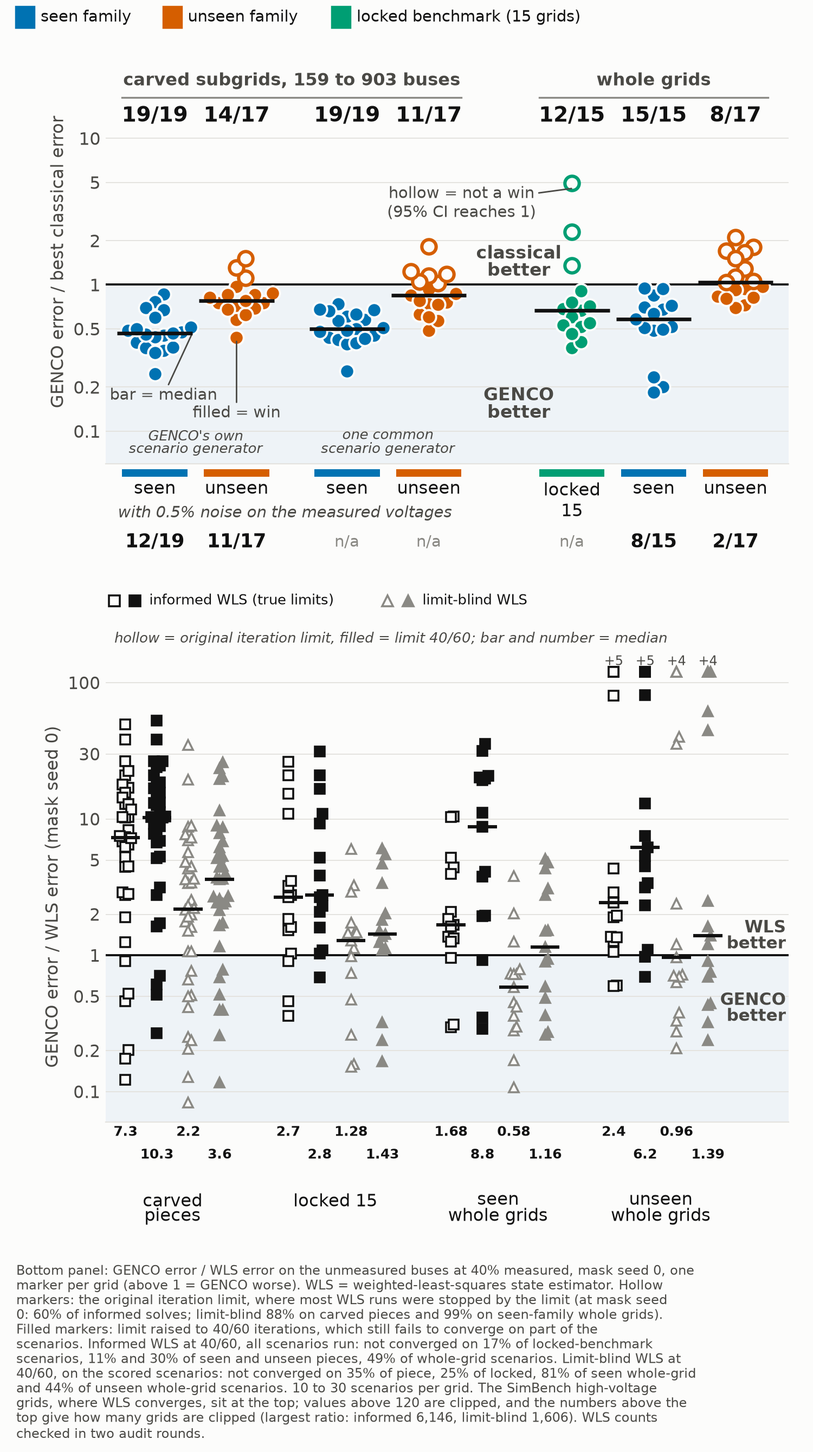
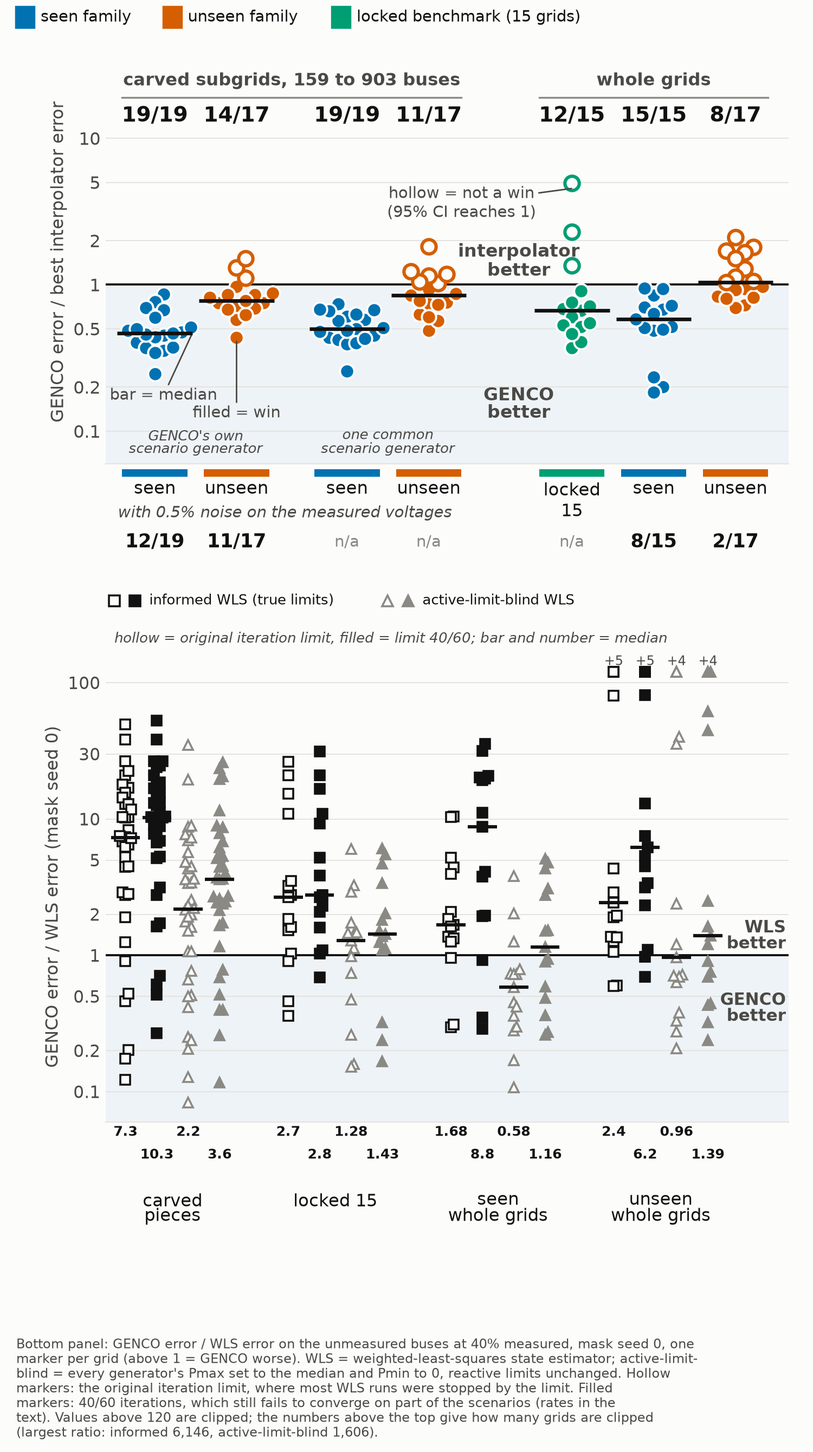
Post text and figures revised after review: scoped claims, definitions, active-limit-blind WLS, fixed-I2 fallback, figure labels

diff --git a/tracks/genco-challenge/results/2026-10-25-figure-a-v35/make_fig_a_v35.py b/tracks/genco-challenge/results/2026-10-25-figure-a-v35/make_fig_a_v35.py
@@ -104,9 +104,9 @@ def fig_a():
     ax.set_yticks([0.1, 0.2, 0.5, 1, 2, 5, 10]); ax.set_yticklabels(["0.1", "0.2", "0.5", "1", "2", "5", "10"], fontsize=11.5)
     ax.tick_params(axis="y", length=0); ax.tick_params(axis="x", length=0, labelbottom=False)
     ax.grid(axis="y", color=GRID, lw=0.7, zorder=0); ax.set_axisbelow(True); clean(ax)
-    ax.set_ylabel("GENCO error / best classical error", fontsize=11.5)
+    ax.set_ylabel("GENCO error / best interpolator error", fontsize=11.5)
     ax.text(4.45, 0.12, "GENCO\nbetter", fontsize=12, color=INK2, fontweight="bold", va="bottom", ha="center", linespacing=0.95)
-    ax.text(4.45, 1.12, "classical\nbetter", fontsize=12, color=INK2, fontweight="bold", va="bottom", ha="center", linespacing=0.95)
+    ax.text(4.45, 1.12, "interpolator\nbetter", fontsize=12, color=INK2, fontweight="bold", va="bottom", ha="center", linespacing=0.95)
     # direct annotations replacing a legend
     lock = [e for n, c, e, _ in cols if n == "locked 15"][0]
     rmax = max(lock, key=lambda e: e["ratio"])["ratio"]
@@ -178,7 +178,7 @@ def fig_a():
     axw.text(21.1, 0.55, "GENCO\nbetter", fontsize=11, color=INK2, fontweight="bold", va="top", ha="right", linespacing=0.95)
     axw.text(21.1, 1.1, "WLS\nbetter", fontsize=11, color=INK2, fontweight="bold", va="bottom", ha="right", linespacing=0.95)
     # direct key (replaces a legend): square = informed, triangle = limit-blind; hollow = original limit, filled = limit raised to 40/60
-    for xk, (mk, c_h, c_f, ttl) in zip((-2.0, 7.4), (("s", INK, INK, "informed WLS (true limits)"), ("^", GREY, GREY, "limit-blind WLS"))):
+    for xk, (mk, c_h, c_f, ttl) in zip((-2.0, 7.4), (("s", INK, INK, "informed WLS (true limits)"), ("^", GREY, GREY, "active-limit-blind WLS"))):
         yk = 400
         axw.plot(xk, yk, mk, ms=7, mfc=SURF, mec=c_h, mew=1.3, clip_on=False)
         axw.plot(xk + 0.7, yk, mk, ms=7, mfc=c_f, mec=c_h, mew=1.3, clip_on=False)
@@ -196,13 +196,10 @@ def fig_a():
     wo = pd.read_csv(R / "2026-10-21-genco-voltage-wls/wls_only_v3.csv")
     PLOTTED["wls_only_v3"] = wo.to_dict(orient="records")
     foot = ("Bottom panel: GENCO error / WLS error on the unmeasured buses at 40% measured, mask seed 0, one marker per grid (above 1 = GENCO worse). "
-            "WLS = weighted-least-squares state estimator. Hollow markers: the original iteration limit, where most WLS runs were stopped by the limit "
-            "(at mask seed 0: 60% of informed solves; limit-blind 88% on carved pieces and 99% on seen-family whole grids). Filled markers: limit raised to 40/60 iterations, "
-            "which still fails to converge on part of the scenarios. Informed WLS at 40/60, all scenarios run: not converged on 17% of locked-benchmark scenarios, "
-            "11% and 30% of seen and unseen pieces, 49% of whole-grid scenarios. Limit-blind WLS at 40/60, on the scored scenarios: not converged on 35% of piece, "
-            "25% of locked, 81% of seen whole-grid and 44% of unseen whole-grid scenarios. 10 to 30 scenarios per grid. "
-            "The SimBench high-voltage grids, where WLS converges, sit at the top; values above 120 are clipped, and the numbers above the top "
-            "give how many grids are clipped (largest ratio: informed 6,146, limit-blind 1,606). WLS counts checked in two audit rounds.")
+            "WLS = weighted-least-squares state estimator; active-limit-blind = every generator's Pmax set to the median and Pmin to 0, reactive "
+            "limits unchanged. Hollow markers: the original iteration limit, where most WLS runs were stopped by the limit. Filled markers: 40/60 "
+            "iterations, which still fails to converge on part of the scenarios (rates in the text). Values above 120 are clipped; the numbers "
+            "above the top give how many grids are clipped (largest ratio: informed 6,146, active-limit-blind 1,606).")
     fig.text(0.02, 0.008, textwrap.fill(foot, 100), fontsize=8.5, color=INK2, va="bottom", ha="left", linespacing=1.15)
     draw_key(fig, 0.9880, [("seen family", BLUE, BLUE), ("unseen family", VERM, VERM), ("locked benchmark (15 grids)", GREEN, GREEN)])
     fig.savefig(OUT / "fig_a_voltage_inference_v35.png", dpi=DPI, facecolor=SURF); plt.close(fig)

diff --git a/tracks/genco-challenge/results/2026-10-24-figure-redesign/make_figs_v3.py b/tracks/genco-challenge/results/2026-10-24-figure-redesign/make_figs_v3.py
@@ -201,9 +201,9 @@ def fig_b():
     c = json.load(open(R / "2026-10-20-genco-transfer/contrast_12k.json"))
     RND, PFM = None, PURP    # random mask = hollow bar; arms that use the power-flow-task mask = purple
     groups = [("GENCO's original data only", [("C00", "random mask", RND), ("C01", "50/50 mix of both masks", PFM)], None),
-              ("our data + original data", [("D", "random mask", RND), ("b", "half-then-mix (random so far)", RND)], "batches 2.34x larger"),
+              ("our data + original data", [("D", "random mask", RND), ("b", "half-then-mix (random so far)", RND)], "2.34x nodes/update"),
               ("our data + original, power-flow mask", [("a", "power-flow-task mask only", PFM), ("c", "power-flow curriculum", PFM),
-                                                       ("m", "50/50 mix of both masks", PFM)], "batches 2.34x larger")]
+                                                       ("m", "50/50 mix of both masks", PFM)], "2.34x nodes/update")]
     fig = plt.figure(figsize=(7.5, 5.7))
     ax = fig.add_axes([0.335, 0.12, 0.33, 0.74])
     from matplotlib.transforms import blended_transform_factory
@@ -285,7 +285,7 @@ def fig_c():
     ax.set_xticks([10, 25, 50, 100, 250, 500, 1000, 5000]); ax.set_xticklabels(["0", "25", "50", "100", "250", "500", "1k", "final"], fontsize=11)
     ax.set_yticks([0, 0.2, 0.4, 0.6, 0.8, 1.0]); ax.set_yticklabels(["0", "0.2", "0.4", "0.6", "0.8", "1.0"], fontsize=11)
     ax.tick_params(length=0); ax.grid(color=GRID, lw=0.7); ax.set_axisbelow(True); clean(ax)
-    ax.set_xlabel("continued-pretraining updates (log scale; final is about 5k)", fontsize=10.5)
+    ax.set_xlabel("continued-pretraining updates (log scale; 0 is drawn at the left edge; final is about 5k)", fontsize=10.5)
     ax.set_ylabel("fraction of hidden collapsed buses\nstill predicted below 0.5 pu (axis from 0)", fontsize=11, linespacing=1.0)
     # preservation
     items = [("branch angle", "final/retrain_fixed", "final/retrain_published", "median_angle_ratio_to_released"),

diff --git a/ENTRY.md b/ENTRY.md
@@ -9,12 +9,12 @@ Mazin Al-Mahrouqi (The Ohio State University)
 
 GENCO comes with its code, pretraining data and checkpoints. That let us look closely, and we thank the authors for it. We asked three questions. Are GENCO's own training labels physically valid, and what does the model learn from the ones that are not? The paper reports zero-shot transfer as unsolved; is there a task where the released checkpoint already works without fine-tuning? Does more pretraining help? This post is what we found, for people who use GENCO or plan to build on it.
 
-1. **On the power-flow task, GENCO tolerates its own bad labels.** About 3% of the sampled pretraining labels are collapsed roots of the power-flow equations. Under its masked pretraining task the model reproduces them. Asked to solve the power flow on the same systems, it avoids the collapsed magnitudes and lands near a physical solution: within a median 0.008 pu of one at the collapsed buses, in all 1,083 scored scenarios.
-2. **Without fine-tuning, GENCO can fill in missing voltages.** The paper's zero-shot limitation is about power-flow transfer, and our own power-flow tests agree with it (finding 4). Masked voltage-magnitude inference is a different task. There, give it 40% of the bus voltages and it infers the rest better than the best of five learning-free graph interpolators. It wins on 33 of 36 carved subgrids, 12 of the 15 locked-benchmark grids and 15 of 15 whole grids from its pretraining families. On whole grids from unseen families it wins 8 of 17. With 20% of the voltages measured, the locked-benchmark count was 8 of 15, below the bar we set in advance, and with 0.5% measurement noise the wins shrink (section 3). A state estimator that knows the generator limits is a harder comparator. On the subset we ran it on, GENCO's wins against the interpolators plus this estimator fall from 31 to 5 of 36 carved subgrids and from 11 to 2 of 15 locked grids (mask seed 0).
-3. **More pretraining did not help.** We ran 21 continued-pretraining runs (7 training recipes x 3 seeds), then 9 more runs with three fixes: a lower learning rate, a frozen backbone, and more of GENCO's original training data. None beat the released model on a locked 15-grid benchmark. About three quarters of our training graphs (73%, counting graphs from GENCO's original training data) came from GENCO's own pretraining families, so most of these runs do not isolate new families. A further control that trained only on the SimBench high-voltage grids, a family GENCO never saw in pretraining, was also no better than the released model, so these runs cannot tell whether the training recipe or unfamiliar grid families limit transfer.
+1. **GENCO's response to collapsed training labels depends on the task.** About 3% of the sampled pretraining labels are collapsed roots of the power-flow equations. Under its masked pretraining task the model reproduces them. On the power-flow task, its voltage magnitudes at the collapsed buses are closer to a recovered power-flow solution than to the stored label in all 1,083 scored scenarios, with a median difference of 0.008 pu. This comparison does not establish feasibility of GENCO's full output.
+2. **Without fine-tuning, GENCO can fill in missing voltages.** The weights are unchanged, but the input scale uses labelled target-grid scenarios, following GENCO's preprocessing; we have not measured the effect of that scaling. The paper's zero-shot limitation is about power-flow transfer, and our own power-flow tests agree with it (finding 4). Masked voltage-magnitude inference is a different task. There, give it 40% of the bus voltages and it infers the rest better than the best of five learning-free graph interpolators. It wins on 33 of 36 carved subgrids, 12 of the 15 locked-benchmark grids and 15 of 15 whole grids from its pretraining families. On whole grids from unseen families it wins 8 of 17. With 20% of the voltages measured, the locked-benchmark count was 8 of 15, below the bar we set in advance, and with 0.5% measurement noise the wins shrink (section 3). A state estimator that knows the generator limits is a harder comparator. On the subset we ran it on, GENCO's wins against the interpolators plus this estimator fall from 31 to 5 of 36 carved subgrids and from 11 to 2 of 15 locked grids (mask seed 0).
+3. **Our continued-pretraining recipes did not improve the locked-benchmark result.** We ran 21 continued-pretraining runs (7 training recipes x 3 seeds), then 9 more runs with three fixes: a lower learning rate, a frozen backbone, and more of GENCO's original training data. None beat the released model on a locked 15-grid benchmark. About three quarters of our training graphs (73%, counting graphs from GENCO's original training data) came from GENCO's own pretraining families, so most of these runs do not isolate new families. A further control that used SimBench high-voltage grids, a family GENCO never saw in pretraining, together with GENCO's corrected original training data, was also no better than the released model, so these runs cannot tell whether the training recipe or unfamiliar grid families limit transfer.
 4. **When every input is known, a classical method wins.** Two fast-decoupled iterations from a DC start beat every GENCO variant we tried on branch angle and voltage magnitude.
 
-If you use GENCO, this is what we would take from our tests. The released checkpoint infers voltages without fine-tuning on grids from its pretraining families, and less often on grids from unseen families. When all inputs are known, it did not beat the classical method, and our continued pretraining did not change that. We also release what we built along the way: the RepairKit (check, repair and verify for any datakit-format dataset), the checksums of the corrected tables with the command that regenerates them, and a frozen, leakage-checked protocol for testing any new training recipe.
+We also release what we built along the way: the RepairKit, which checks datakit-format datasets, attempts label repair and verifies the repaired tables, the checksums of the corrected tables with the command that regenerates them, and a frozen, leakage-checked protocol for testing any new training recipe.
 
 ## 1. Setup
 
@@ -24,7 +24,7 @@ We first reproduced the paper's case118 transfer numbers with the released check
 
 We registered the transfer, voltage-inference, continued-pretraining and classical-reference tests before their results existed (each follow-up arm before its own run). The label diagnostics in section 2 and the case118 replication had no written protocol, so treat them as exploratory.
 
-## 2. On the power-flow task, GENCO tolerates its own invalid labels
+## 2. GENCO's response to collapsed training labels depends on the task
 
 **The defect.** 1,085 of 34,274 sampled scenarios are flagged (minimum |V| below 0.5 pu, or negative). Of these, 1,069 (3.1% of 34,274) have a collapsed |V| below 0.5 pu, and 16 are sign flips only. The cause is in the data generator. Its fast power-flow call (PowerModels, trust-region solver from a flat start) lands on the collapsed root. It reproduces the published label to below 1e-6 pu on 51 of 51 sampled collapsed scenarios. We have not established which property of the grids pushes it there.
 
@@ -36,17 +36,17 @@ We registered the transfer, voltage-inference, continued-pretraining and classic
 
 **How we found the physical solutions, and what this does not show.** The 1,085 flagged labels contain a bus voltage that is negative or below 0.5 pu; in 941 of them the lowest bus is within 0.1 pu of zero, and at the 1,156 flagged buses, 1,148 of our solutions sit at 0.9 pu or above. The 0.5 pu cut is a convention, not a gap in the data. We searched for a power-flow solution with every voltage at least 0.5 pu and a power mismatch below 1e-9 pu. Newton's method started from flat and DC guesses, then from the solutions of neighbouring scenarios of the same subgrid, then by gradually morphing from healthy scenarios. This found a solution for all 1,083 scored collapsed scenarios. For 1,070 of them two different starts reached the same solution; 643 of those came from the neighbour or morphing starts. Across all 1,083, 40 solutions have a voltage below 0.70 pu. For the other 13, the stored label already satisfies the power-flow equations once its sign error is removed. Six scenarios are more than 0.2 pu from their solution; they have strained low-voltage solutions. A scenario can have more than one valid solution, so this shows GENCO lands near a physical solution, not that it finds a unique one. The comparison uses voltage magnitudes only.
 
-Our reading is a hypothesis: pretraining on a large, diverse set buys this tolerance. We did not separate it from the extra information the power-flow task supplies. We evaluated the power-flow task only, not OPF.
+We do not know whether this difference comes from pretraining or from the extra information supplied in the power-flow task. We evaluated the power-flow task only, not OPF.
 
-**Cleaning the labels.** We continued pretraining on corrected labels, and separately on the original labels for comparison. Over three training seeds per label set, continued pretraining made held-out error worse than the released model's in both arms (median over the 15 held-out grids of the ratio to released; the corrected-label models still beat released on 2 to 4 of 15 grids on branch angle): median branch-angle error 1.16 times released with corrected labels (range 1.09 to 1.17) and 1.33 times with original labels (1.30 to 1.44); median |V| error 1.38 times (1.35 to 2.21) and 2.31 times (1.93 to 2.56), so only the branch-angle gap is separated by seed. The share of hidden collapsed buses still predicted below 0.5 pu was 0.80 (0.70 to 0.83) with corrected labels and 0.94 (0.92 to 0.97) with original labels (mask seed 1000), lower with corrected labels in all three seeds. We also trained two GENCO-architecture models from scratch for about 115k updates (1.3% of the paper's schedule) on 28 of GENCO's 100 pretraining subgrids, one on the original labels and one on the corrected labels, with the same seed, initialisation and data order. Both failed the underfit check we set in advance at 12k updates (hidden-voltage error on normal scenarios 1.4 to 1.6 times that of a flat 1.0 pu guess) and were far from GENCO's schedule at the end (by 114k updates the error had fallen to 0.5 to 0.6 times the flat guess), so this run cannot say whether the label repair changes what GENCO learns. Correcting the data does not appear to cause the loss, and it does not fix it either.
+**Cleaning the labels.** We continued pretraining on corrected labels, and separately on the original labels for comparison. Over three training seeds per label set, continued pretraining made held-out error worse than the released model's in both arms (median over the 15 held-out grids of the ratio to released; the corrected-label models still beat released on 2 to 4 of 15 grids on branch angle): median branch-angle error 1.16 times released with corrected labels (range 1.09 to 1.17) and 1.33 times with original labels (1.30 to 1.44); median |V| error 1.38 times (1.35 to 2.21) and 2.31 times (1.93 to 2.56), Across the three seeds, the branch-angle ranges do not overlap; the voltage-magnitude ranges do. For the added seeds, the original weight-identity check failed; a replacement check was chosen after the results were seen. The seed report documents this limitation. The share of hidden collapsed buses still predicted below 0.5 pu was 0.80 (0.70 to 0.83) with corrected labels and 0.94 (0.92 to 0.97) with original labels (mask seed 1000), lower with corrected labels in all three seeds. We also trained two GENCO-architecture models from scratch for about 115k updates (1.3% of the paper's schedule) on 28 of GENCO's 100 pretraining subgrids, one on the original labels and one on the corrected labels, with the same seed, initialisation and data order. Both failed the underfit check we set in advance at 12k updates (hidden-voltage error on normal scenarios 1.4 to 1.6 times that of a flat 1.0 pu guess) and were far from GENCO's schedule at the end (by 114k updates the error had fallen to 0.5 to 0.6 times the flat guess), so this run cannot say whether the label repair changes what GENCO learns. Both label sets worsened held-out accuracy under this training recipe.
 
-![Top: the fraction of hidden collapsed buses that the model still predicts below 0.5 pu falls from 0.97 to 0.84 (mean over three mask seeds) when continued pretraining uses corrected labels and to 0.94 with the original labels (training seed 200; the axis starts at 0). Bottom: held-out error relative to the released model is worse with both label sets (training seed 200; the three-seed medians are in the text).](tracks/genco-challenge/results/2026-10-18-genco-challenge-post/figures-v3/fig_c_unlearning.png)
-
-*In the first training seed, corrected labels lower the reproduction of the collapse from 0.97 to 0.84, but held-out error is worse than the released model with both label sets. The text gives all three seeds.*
+![Top: the fraction of hidden collapsed buses that the model still predicts below 0.5 pu falls from 0.97 to 0.84 (mean over three mask seeds) when continued pretraining uses corrected labels and to 0.94 with the original labels (training seed 200; the axis starts at 0). Bottom: held-out error relative to the released model is worse with both label sets (training seed 200; the three-seed medians are in the text). The dashed line marks the 1.10 preservation tolerance.](tracks/genco-challenge/results/2026-10-18-genco-challenge-post/figures-v3/fig_c_unlearning.png)
 
 ## 3. Voltage inference from partial measurements, without fine-tuning
 
-**The task.** Loads are known. Generator dispatch is unknown. The voltage magnitude |V| is measured at a seeded fraction of buses, which is GENCO's own masked regime. The released checkpoint, without fine-tuning, predicts |V| at the other buses. We compare it with the best of five learning-free graph interpolators: harmonic, admittance-weighted, nearest electrical neighbour, load-aware, and graph kriging. None of them uses the power-flow equations. A model-based comparator follows below.
+**The task.** Loads are known. Generator dispatch is unknown. The voltage magnitude |V| is measured at a seeded fraction of buses, which is GENCO's own masked regime. The GENCO paper already studies state estimation (its section 5.3); we test the released checkpoint's masked voltage inference across these grid sets without fine-tuning. The released checkpoint, without fine-tuning, predicts |V| at the other buses. We compare it with the best of five learning-free graph interpolators: harmonic, admittance-weighted, nearest electrical neighbour, load-aware, and graph kriging. None of them uses the power-flow equations. A model-based comparator follows below.
+
+**Terms.** Carved subgrids are smaller networks extracted from parent grids. "Seen" means the grid family appeared in GENCO's pretraining, not necessarily that this particular grid did. The locked benchmark is 15 fixed grids that shaped earlier work; it is not a blind test. A mask seed fixes which buses are measured. Branch angle is the voltage-angle difference across a branch, and pu is per unit.
 
 **Results at 40% measured, noise-free.** A win means GENCO's error is lower than the best interpolator's, and the upper end of its 95% bootstrap interval is also below 1.
 
@@ -64,18 +64,16 @@ With 0.5% measurement noise at 40% measured, GENCO still wins 23 of 36 carved su
 
 **Family familiarity.** The evidence points that way, but it is weak. The primary tests at 20% measured (locked 15) and 40% (unseen whole grids) failed. The carved-subgrid control passed (19 of 19). Under one scenario generator, the seen pieces win 19 of 19 and the unseen pieces 11 of 17 (p = 0.006, Fisher's exact test on pieces, a secondary and unadjusted test). The pieces are not independent: the 19 seen and 17 unseen pieces come from 7 and 6 parent grids. A one-sided permutation test over parents gives p = 0.021, which we show only as a sensitivity check. Two registered tests did not show an effect: the family test on datakit pieces (14 of 17 against 19 of 19, p = 0.095) and the pieces-versus-whole test within the second scenario generator (11 of 17 pieces against 8 of 17 whole grids, p = 0.245). Seen and unseen pieces also differ in parent and composition.
 
-**Against a state estimator.** On the same scenarios, masks and seeds, we added a weighted-least-squares (WLS) state estimator. It uses the known loads, the grid model and the true generator active-power limits, so it is a stronger comparator than the interpolators. At 40% measured, GENCO's wins against the five interpolators plus this WLS fall from 31 to 5 of 36 carved pieces, and from 11 to 2 of the 15 locked-benchmark grids. With the solver's iteration limit raised to 40/60 they fall to 2 of 36 and 1 of 15. That solver still fails to converge on some scenarios; replacing each non-converged solve with the best interpolator gives 4 of 36 and 1 of 15 instead. A win here means the error ratio to the best comparator is below 1, with the upper end of its 95% bootstrap interval also below 1. The 31 and 11 are interpolator-only counts on the subset WLS was run on (the first 30 scenarios per grid, mask seed 0). On the full test sets above they are 33 and 12.
+**Against a state estimator.** On the same scenarios, masks and seeds, we added a weighted-least-squares (WLS) state estimator. It uses the known loads, the grid model and the true generator active-power limits, so it is a stronger comparator than the interpolators. At 40% measured, GENCO's wins against the five interpolators plus this WLS fall from 31 to 5 of 36 carved pieces, and from 11 to 2 of the 15 locked-benchmark grids. With the solver allowed 40 iterations in its first stage and 60 in its second (40/60) they fall to 2 of 36 and 1 of 15. That solver still fails to converge on some scenarios; replacing each non-converged solve with the fixed I2 interpolator (harmonic interpolation weighted by branch admittance) gives 4 of 36 and 1 of 15 instead. A win here means the error ratio to the best comparator is below 1, with the upper end of its 95% bootstrap interval also below 1. The 31 and 11 are interpolator-only counts on the subset WLS was run on (the first 30 scenarios per grid, mask seed 0). On the full test sets above they are 33 and 12.
 
-On magnitudes: the median ratio of GENCO's error to WLS's error, with the true generator limits, is 7.3 on carved pieces, 2.7 on the locked 15, 1.7 on seen-family whole grids and 2.4 on unseen-family whole grids, so GENCO is clearly less accurate than the informed WLS; against the limit-blind WLS the medians are 2.2, 1.3, 0.58 and 0.96 (mask seed 0). Most of these WLS runs were stopped by the iteration cap. With the limit raised to 40/60 the medians against the informed WLS are 10.3, 2.8, 8.8 and 6.2, and against the limit-blind WLS 3.6, 1.4, 1.16 and 1.39. So GENCO is close to the limit-blind WLS (1.16) only on seen-family whole grids, and clearly behind on unseen-family whole grids, and even that is against a solver that fails to converge on 81% (seen) and 44% (unseen) of whole-grid scenarios (details below).
+On magnitudes: the median ratio of GENCO's error to WLS's error, with the true generator limits, is 7.3 on carved pieces, 2.7 on the locked 15, 1.7 on seen-family whole grids and 2.4 on unseen-family whole grids, so GENCO is clearly less accurate than the informed WLS; against the active-limit-blind WLS the medians are 2.2, 1.3, 0.58 and 0.96 (mask seed 0). Most of these WLS runs were stopped by the iteration cap. With the limit raised to 40/60 the medians against the informed WLS are 10.3, 2.8, 8.8 and 6.2, and against the active-limit-blind WLS 3.6, 1.4, 1.16 and 1.39. So GENCO is close to the active-limit-blind WLS (1.16) only on seen-family whole grids, and clearly behind on unseen-family whole grids, and even that is against a solver that fails to converge on 81% (seen) and 44% (unseen) of whole-grid scenarios (details below).
 
 The WLS result comes with caveats:
 - WLS ran on 10 to 30 scenarios per grid for the win counts (up to 100 per grid, 30 on whole grids, for the convergence figures). At mask seed 0, 60% of its solves with the true generator limits hit the iteration cap. With the limit raised to 40/60 it still failed to converge on 17% of locked-benchmark scenarios, 11% and 30% of seen and unseen pieces and 49% of whole-grid scenarios. Its solver was tuned on two scored grids.
-- WLS leans on the generator limits. We gave it uninformative limits instead (every in-service generator's Pmax set to the median, Pmin to 0). GENCO still sees the true limits. GENCO then beats the interpolators and this limit-blind WLS on 8 of 36 pieces, 3 of 15 locked-benchmark grids, 6 of 15 seen-family whole grids and 3 of 17 unseen-family whole grids (mask seed 0). With the iteration limit raised to 40/60 these become 4, 2, 1 and 2.
-- The limit-blind WLS hit the iteration cap on 88% of piece scenarios and 99% of seen-family whole-grid scenarios (mask seed 0). If every capped solve is replaced by an interpolator, the counts become 28, 5, 13 and 3 (mask seed 0). With the iteration limit raised to 40/60 on all 36 pieces, GENCO wins 4 of 36 (8 at the original limit). That solver still fails to converge on 35% of piece scenarios and 81% of seen-family whole-grid scenarios; replacing each non-converged solve with an interpolator gives 9, 4, 10 and 3 for pieces, locked, seen whole and unseen whole.
+- WLS leans on the generator limits. We removed generator-specific active-power limits: every in-service generator's Pmax was set to the median and Pmin to 0. Reactive-power limits were unchanged. We call this the active-limit-blind WLS. GENCO still sees the true limits. GENCO then beats the interpolators and this active-limit-blind WLS on 8 of 36 pieces, 3 of 15 locked-benchmark grids, 6 of 15 seen-family whole grids and 3 of 17 unseen-family whole grids (mask seed 0). With the iteration limit raised to 40/60 these become 4, 2, 1 and 2.
+- The active-limit-blind WLS hit the iteration cap on 88% of piece scenarios and 99% of seen-family whole-grid scenarios (mask seed 0). If every capped solve is replaced by the fixed I2 interpolator, the counts become 28, 5, 13 and 3 (mask seed 0). With the iteration limit raised to 40/60 on all 36 pieces, GENCO wins 4 of 36 (8 at the original limit). That solver still fails to converge on 35% of piece scenarios, 25% of locked-benchmark scenarios, 81% of seen-family whole-grid scenarios and 44% of unseen-family whole-grid scenarios; replacing each non-converged solve with the fixed I2 interpolator gives 9, 4, 10 and 3 for pieces, locked, seen whole and unseen whole.
 
-![Top: each dot is one grid, showing GENCO's error divided by the best interpolator's error at 40% measured; filled dots are wins, grouped by scenario generator and by seen, unseen and locked-benchmark grids, with win counts above and the 0.5% noise counts below. Bottom: each marker is one grid, showing GENCO's error divided by the weighted-least-squares (WLS) error, with the true generator limits (squares) and with limit-blind WLS (triangles), hollow at the original iteration limit and filled with the limit raised to 40/60; bars are medians (7.3, 2.2 on carved pieces; 2.7, 1.3 on the locked 15; 1.7, 0.58 on seen whole grids; 2.4, 0.96 on unseen whole grids; mask seed 0), a log axis, and the unseen-family tail is the SimBench high-voltage grids (5 grids above 120 with true limits, up to 6,146; 4 with limit-blind WLS, up to 1,606), shown clipped at the top. At the original limit WLS was mostly iteration-capped; at 40/60 it still failed to converge on part of the scenarios (footnote in the figure). GENCO's wins against the interpolators plus WLS are in the text: 5 of 36 pieces and 2 of 15 locked grids with true limits, and 8 of 36, 3 of 15, 6 of 15 and 3 of 17 with limit-blind WLS (mask seed 0; with the iteration limit raised to 40/60: 2 of 36 and 1 of 15, and 4, 2, 1 and 2).](tracks/genco-challenge/results/2026-10-18-genco-challenge-post/figures-v3/fig_a_voltage_inference_v35.png)
-
-*At 40% measured, GENCO beats the best interpolator on most seen-family and locked-benchmark grids, on fewer unseen-family grids, and on far fewer once the state estimators are added.*
+![Top: each dot is one grid: GENCO's error divided by the best interpolator's error at 40% measured (error = median over scenarios of the mean absolute |V| error on unmeasured buses); filled circles mark wins under the bootstrap rule, with win counts above and the 0.5% noise counts below. Bottom: GENCO's error divided by the WLS error, with the true generator limits (squares) and the active-limit-blind WLS (triangles); hollow markers use the original iteration budget and filled markers use 40/60 iterations. Bars and printed values show group medians for each budget (mask seed 0, log axis). Values above 120 are clipped: 5 grids with true limits (largest 6,146) and 4 with the active-limit-blind WLS (largest 1,606), all SimBench high-voltage grids.](tracks/genco-challenge/results/2026-10-18-genco-challenge-post/figures-v3/fig_a_voltage_inference_v35.png)
 
 ## 4. Continued pretraining did not help in our study
 
@@ -103,11 +101,9 @@ Continued pretraining means taking the released checkpoint and training it furth
 
 - Without our generated data, masking showed no measurable effect over three seeds.
 - |V| error is also worse than released on 12 to 14 of 15 grids.
-- The generated-data contrast compares training setups. It does not isolate the effect of the data. The runs match optimizer updates but not batches. Batches with only the original data held 32 graphs, about 20,138 nodes per step (the 7,929 original-data graphs average 629.3 buses). Batches with generated plus original data packed about 47,118 nodes and 16.03 graphs per step, 2.34 times as many. The 15 runs with generated data trained on OSC and the 6 original-data-only runs locally. So +21% against +54.5% compares data, batch size and composition together.
+- The generated-data contrast compares training setups. It does not isolate the effect of the data. The runs match optimizer updates but not batches. Batches with only the original data held 32 graphs, about 20,138 nodes per step (the 7,929 original-data graphs average 629.3 buses). Batches with generated plus original data averaged about 47,118 nodes and 16.03 graphs per step: 2.34 times as many nodes per step as the original-data-only batches. The 15 runs with generated data trained on OSC and the 6 original-data-only runs locally. So +21% against +54.5% compares data, batch size and composition together.
 
 ![Bars show how much worse than the released model each training setup is on branch angle at matched 12,000 updates, grouped as original data only, generated data, and generated data with power-flow masking; the squares count, out of the 15 locked grids, those where |V| is worse and those where branch angle is better.](tracks/genco-challenge/results/2026-10-18-genco-challenge-post/figures-v3/fig_b_transfer_12k.png)
-
-*At matched 12,000 updates every training setup is worse than the released model: original data only by about 21%, generated data by about 55%, and generated data with power-flow masking by 87% to 106%. The runs with generated data used batches 2.34 times larger.*
 
 **Second set (9 runs): no-go again.** The three fixes were a lower learning rate, a frozen backbone (the model's 12 message-passing layers kept fixed), and 9 times as much of GENCO's original training data. We froze this protocol before the runs and made one amendment, about how often validation was run, after they finished; it changed which checkpoint one run selected, and the report in the repo gives the sensitivity.
 - The arm that validation selected (9 times the original data) is 31% worse (4.83 against 3.69). The lower learning rate is 12% worse.
@@ -119,7 +115,7 @@ Continued pretraining means taking the released checkpoint and training it furth
 
 **Reading.** Together with section 3, GENCO looks strongest where the grid family resembles its pretraining. This is a hypothesis. Section 3 also shows it winning 12 of the 15 locked-benchmark grids, none of them from its pretraining families. The training mix was 73% GENCO's own families (89% in the run with 9 times the original data), with the rest SimBench HV, and it lowered accuracy on the locked 15. That is not a test of training on new families alone. We also continued pretraining on the SimBench high-voltage grids, the only unseen-family grids in our training mix, together with GENCO's own corrected training subgrids (3 seeds). Judged by the rules we fixed in advance, the result is partial: at 12,000 updates it beat the run on our mostly-familiar generated data, but at the validation-selected checkpoint it did not, and on the 15 locked grids it was no better than the released model (median branch-angle error 4.4 times DC at 12,000 updates, against 3.7). So this control cannot tell whether the training recipe or unfamiliar grid families limit transfer.
 
-**What the study leaves behind:** a frozen, leakage-checked protocol that any training recipe can be run through, matched-update contrasts of data, masking and original data, and a list of things we did not try (other learning rates and schedules, longer runs, other draws of generated data).
+**What we release for others:** a frozen, leakage-checked protocol that any training recipe can be run through, matched-update contrasts of data, masking and original data, and a list of things we did not try (other learning rates and schedules, longer runs, other draws of generated data).
 
 ## 5. A classical reference when all inputs are known
 
@@ -132,7 +128,7 @@ With every power-flow input known, two fast-decoupled iterations from DC (we cal
 | Learned corrector on large grids | 1.5 and 3.7 times fd2's error on case2869 and case9241. On case6470rte the fd2 guard replaced fd2 by DC in every scenario, so the corrector there was fed DC (1.2 times raw fd2's error, 0.64 times DC's). A corrector on raw fd2 was not run. |
 | GENCO as a Newton start | On the 11 large grids we tried, never faster or more robust than fd2. |
 
-One narrow exception: few-shot GENCO on case240 beats the raw fd2 iterate (3.16 deg), which is itself 3.3 times worse than DC (0.97 deg). Against the guarded fd2, which falls back to DC, fd2 wins there too, and GENCO (1.25 deg) is worse than DC. So it is not a win over any baseline worth using.
+One narrow exception: few-shot GENCO on case240 beats the raw fd2 iterate (3.16 deg), which is itself 3.3 times worse than DC (0.97 deg). Against the guarded fd2, which falls back to DC, fd2 wins there too, and GENCO (1.25 deg) is worse than DC. On case240, few-shot GENCO beats raw fd2 but remains worse than DC and guarded fd2.
 
 When the dispatch is unknown, so not every input is known, GENCO's state inference for branch angle did not beat the best of three baselines built on an assumed dispatch on any of the 15 grids (error ratios 1.37 to 8.24). This is a different quantity from the |V| task in section 3.
 
@@ -152,35 +148,13 @@ When the dispatch is unknown, so not every input is known, GENCO's state inferen
 
 ## 7. How we checked
 
-An independent auditor, who had no part in producing the results, re-checked the numbers in repeated rounds; the last round left only cosmetic items open. The audits changed several things, and the changes are in the text above: continued-pretraining runs now treat the released weights as a selection candidate and validate on 5 RTE grids; voltage inference has a generator-controlled rerun and a family-matched whole-versus-piece comparison; the classical-reference verdicts were reproduced; and the training-set size and the share from GENCO's own families were corrected. If you find a number that does not match its result file, please tell us.
+We used separate AI review sessions, which had not produced the results, to check result files and claims in repeated rounds. Those checks led to the changes described below. The three newest training results (the three-seed continued pretraining, the SimBench control and the from-scratch pair) had two review rounds with minor items still open, and their reports remain marked unaudited. The audits changed several things, and the changes are in the text above: continued-pretraining runs now treat the released weights as a selection candidate and validate on 5 RTE grids; voltage inference has a generator-controlled rerun and a family-matched whole-versus-piece comparison; the classical-reference verdicts were reproduced; and the training-set size and the share from GENCO's own families were corrected. If you find a number that does not match its result file, please tell us.
 
 ## 8. Reproduce it
 
 Code and result files: <https://github.com/mahrouqi1/grid-operations-genco>. Code is under Apache-2.0 and result files and figures under CC BY 4.0. Third-party code, data and checkpoints keep their own licences and are not redistributed.
 
-**One command.** From the repo root, with the pinned environment active:
-
-```
-bash reproduce.sh
-```
-
-It runs four steps and prints PASS or FAIL for each, then `RESULT: PASS` or `RESULT: FAIL`. The exit code is 0 only if every step passed.
-1. **checksums.** Every file in the repo is compared with `CHECKSUMS.sha256`.
-2. **env.** `tools/check_env.py` compares every pinned package with what is installed.
-3. **figures.** The figures are rebuilt from the committed result files.
-4. **tests.** The unit tests run, with no private data and no GPU.
-
-You can run one step alone: `bash reproduce.sh checksums`, or `env`, `figures`, `tests`. Run the checksum step before the figures step, because figures are rebuilt in place.
-
-**Pinned environment.**
-
-```
-conda env create -f environment-genco.lock.yml
-conda activate grid-operations-genco
-export PYTHONNOUSERSITE=1
-```
-
-`environment-genco.lock.yml` holds exact versions. `lock/` has the same pins as a conda explicit list and a pip freeze, plus the pinned Julia project and manifest. gridfm-datakit and gridfm-graphkit are pinned to commits of the authors' `genco-paper-repro` branch. On older glibc hosts (RHEL 8 class) torch-scatter has to be built from source; `REPRODUCE.md` has the command.
+Run `bash reproduce.sh` in the pinned environment (`environment-genco.lock.yml`; `REPRODUCE.md` has the setup) to check files against their checksums, check the environment, rebuild the figures and run the tests. It prints PASS or FAIL per step. This does not rerun the scoring; the levels below say what that needs.
 
 **In the repo:** the experiment code, the RepairKit and a minimal `core/grid_ops`; the unit tests; the small result files (reports, tables, json, csv) that each number in this post rests on; the figure scripts and committed figures; the lock files and `CHECKSUMS.sha256`.
 
@@ -208,4 +182,4 @@ Regeneration is not seed-free from end to end. Datakit draws the scenarios and J
 
 ## What we'd like to explore with the community
 
-We would be glad to work on any of these with GENCO's authors and other users. GENCO as a learned prior inside WLS state estimation is one: GENCO alone lost ground once the estimator was added as a comparator. A hybrid of physics and GENCO is another, since a classical method won when every input was known. A third is solvability-aware training: about 3% of the pretraining labels are collapsed roots, and some stressed scenarios have only strained low-voltage solutions. A fourth is a cleaner test of whether unfamiliar grid families limit transfer, since our SimBench-HV-only control could not separate that from the training recipe. If any of these overlaps with your work, or if you have a number that disagrees with ours, write to mahrouqi.1@osu.edu.
+We would be glad to work on any of these with GENCO's authors and other users. GENCO as a learned prior inside WLS state estimation is one: GENCO alone lost ground once the estimator was added as a comparator. A hybrid of physics and GENCO is another, since a classical method won when every input was known. A third is solvability-aware training: about 3% of the sampled pretraining labels are collapsed roots, and some recovered solutions remain at low voltage. A fourth is a cleaner test of whether unfamiliar grid families limit transfer, since our SimBench-HV control could not separate that from the training recipe. If any of these overlaps with your work, or if you have a number that disagrees with ours, write to mahrouqi.1@osu.edu.

diff --git a/README.md b/README.md
@@ -35,7 +35,7 @@ bash reproduce.sh
 
 One step alone: `bash reproduce.sh checksums` (or `env`, `figures`, `tests`). Run the checksum step before the figures step, because the figures are rebuilt in place. [`FIGURES.md`](FIGURES.md) lists each figure with its script, the result files it reads and the files it writes. [`REPRODUCE.md`](REPRODUCE.md) has the environment notes and the two further levels (regenerating the large data sets, and re-scoring with the released checkpoints on a GPU).
 
-The three PNGs in the repo are rendered in the pinned environment (matplotlib 3.11.2), so `reproduce.sh` rebuilds them byte for byte. The copies uploaded with the Hugging Face post were rendered with matplotlib 3.10.9: same data and layout, with small differences in text placement and antialiasing.
+The three PNGs in the repo are rendered in the pinned environment (matplotlib 3.11.2), so `reproduce.sh` rebuilds them byte for byte. They are the same files as the ones uploaded with the Hugging Face post.
 
 The step-by-step scoring runs themselves are not rerun by `reproduce.sh`; the committed result files are the record of those numbers.
 
